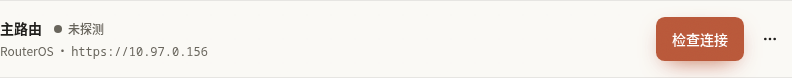
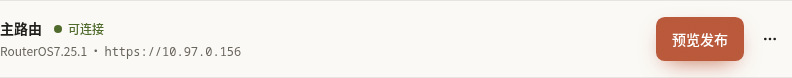
更新主路由发布入口截图与草稿阶段回归断言

Changed region(s): [[0.0606, 0.5897, 0.303, 0.7179], [0.8485, 0.4103, 0.9394, 0.6154], [0.0606, 0.2821, 0.1515, 0.4615]]

diff --git a/frontend/tests/setup-flow.test.ts b/frontend/tests/setup-flow.test.ts
@@ -116,7 +116,7 @@ describe('首次使用分流向导', () => {
     await click('自动配置主路由')
     expect(wrapper!.text()).not.toContain('先添加主路由的管理地址和账号')
     expect(wrapper!.getComponent({ name: 'Routers' }).props('setupDraftSession')).toBe('a'.repeat(32))
-    await click('完成安装后继续')
+    expect(wrapper!.text()).not.toContain('完成安装后继续')
     expect(setupApi.finish).not.toHaveBeenCalled()
     expect(setupApi.progress).not.toHaveBeenCalled()
   })
